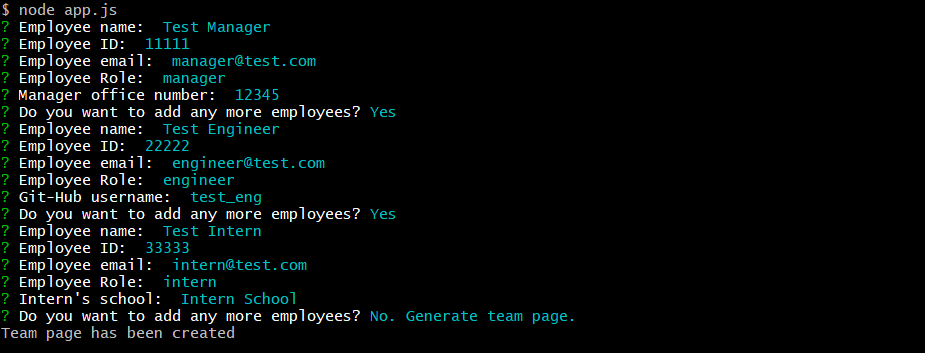
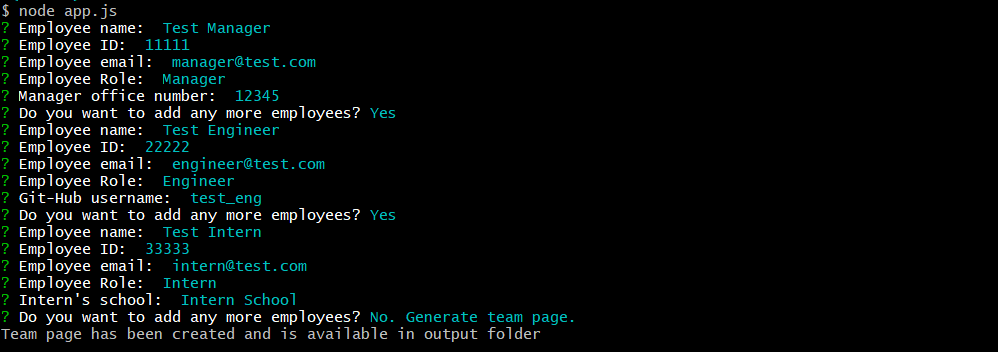
changes to js code

Changed region(s): [[0.0, 0.0, 0.6357, 0.9688]]

diff --git a/app.js b/app.js
@@ -98,7 +98,7 @@ async function continueOptions() {
                     throw error
                 }
                 else {
-                    console.log("Team page has been created in output folder")
+                    console.log("Team page has been created and is available in output folder")
                 }
             })
         }
@@ -114,13 +114,13 @@ async function continueOptions() {
 async function employeeProfile() {
     try {
         const employee = await promptEmployee()
-        if (employee.role == "manager") {
+        if (employee.role == "Manager") {
             const manager = await promptManager()
             employee.name = new Manager(employee.name, employee.ID, employee.email, manager.officeNumber)
             employeeList.push(employee.name)
             continueOptions()
         }
-        else if (employee.role == "engineer") {
+        else if (employee.role == "Engineer") {
             const engineer = await promptEngineer()
             employee.name = new Engineer(employee.name, employee.ID, employee.email, engineer.github)
             employeeList.push(employee.name)
